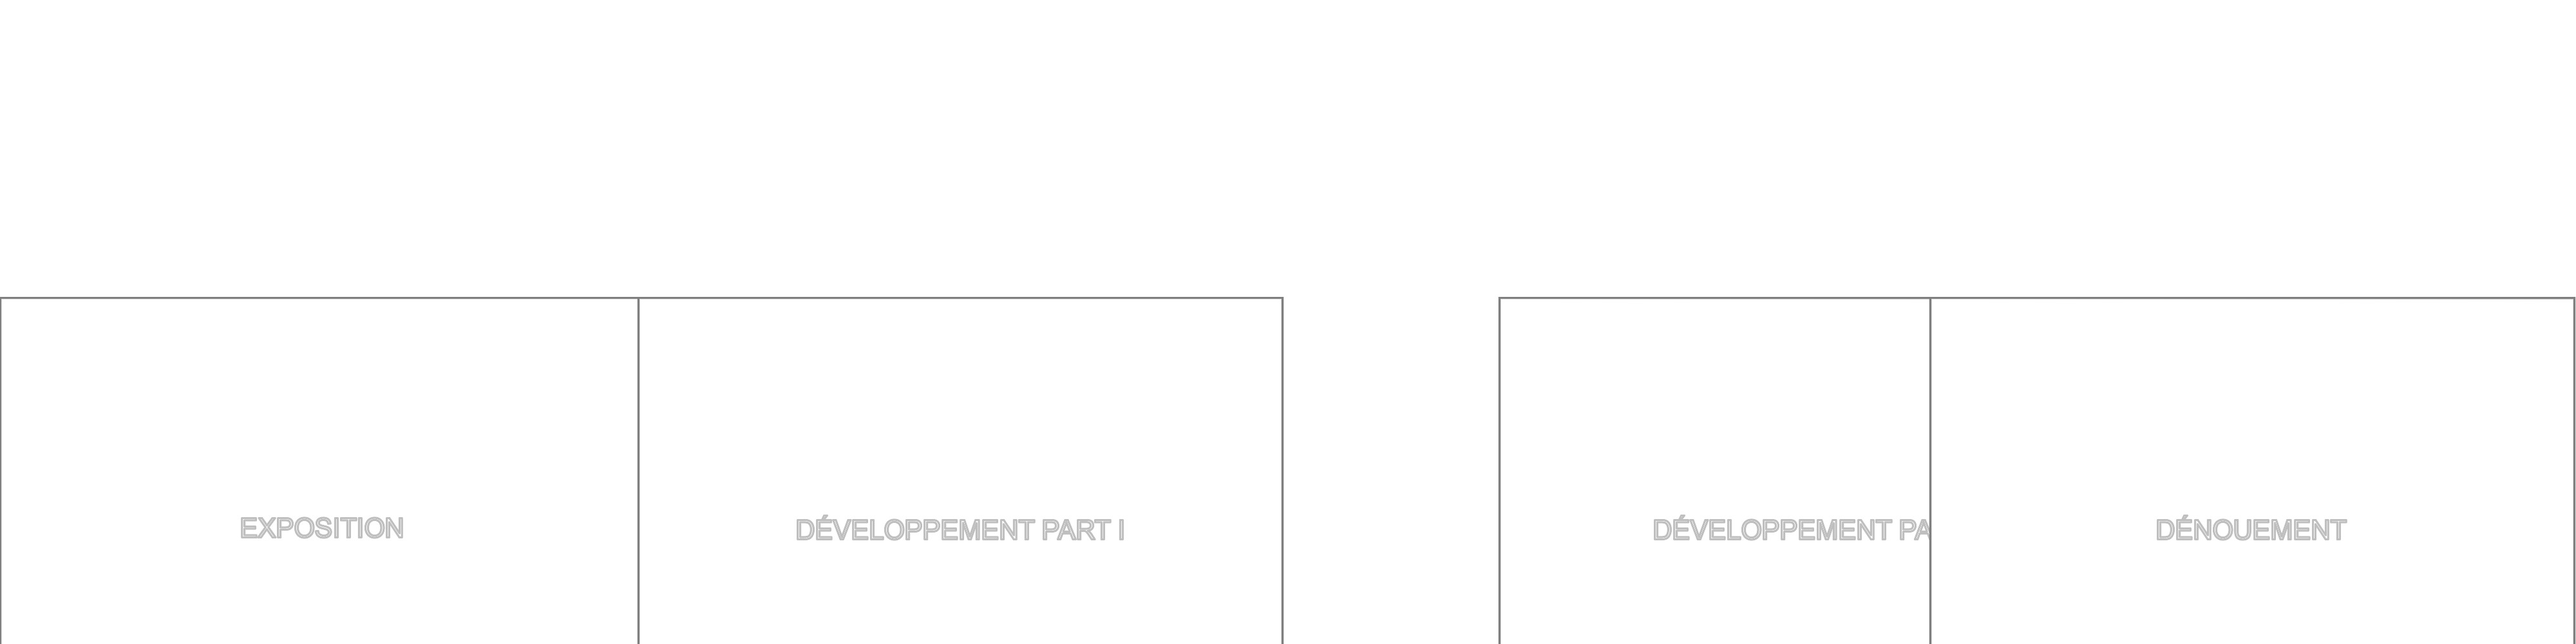
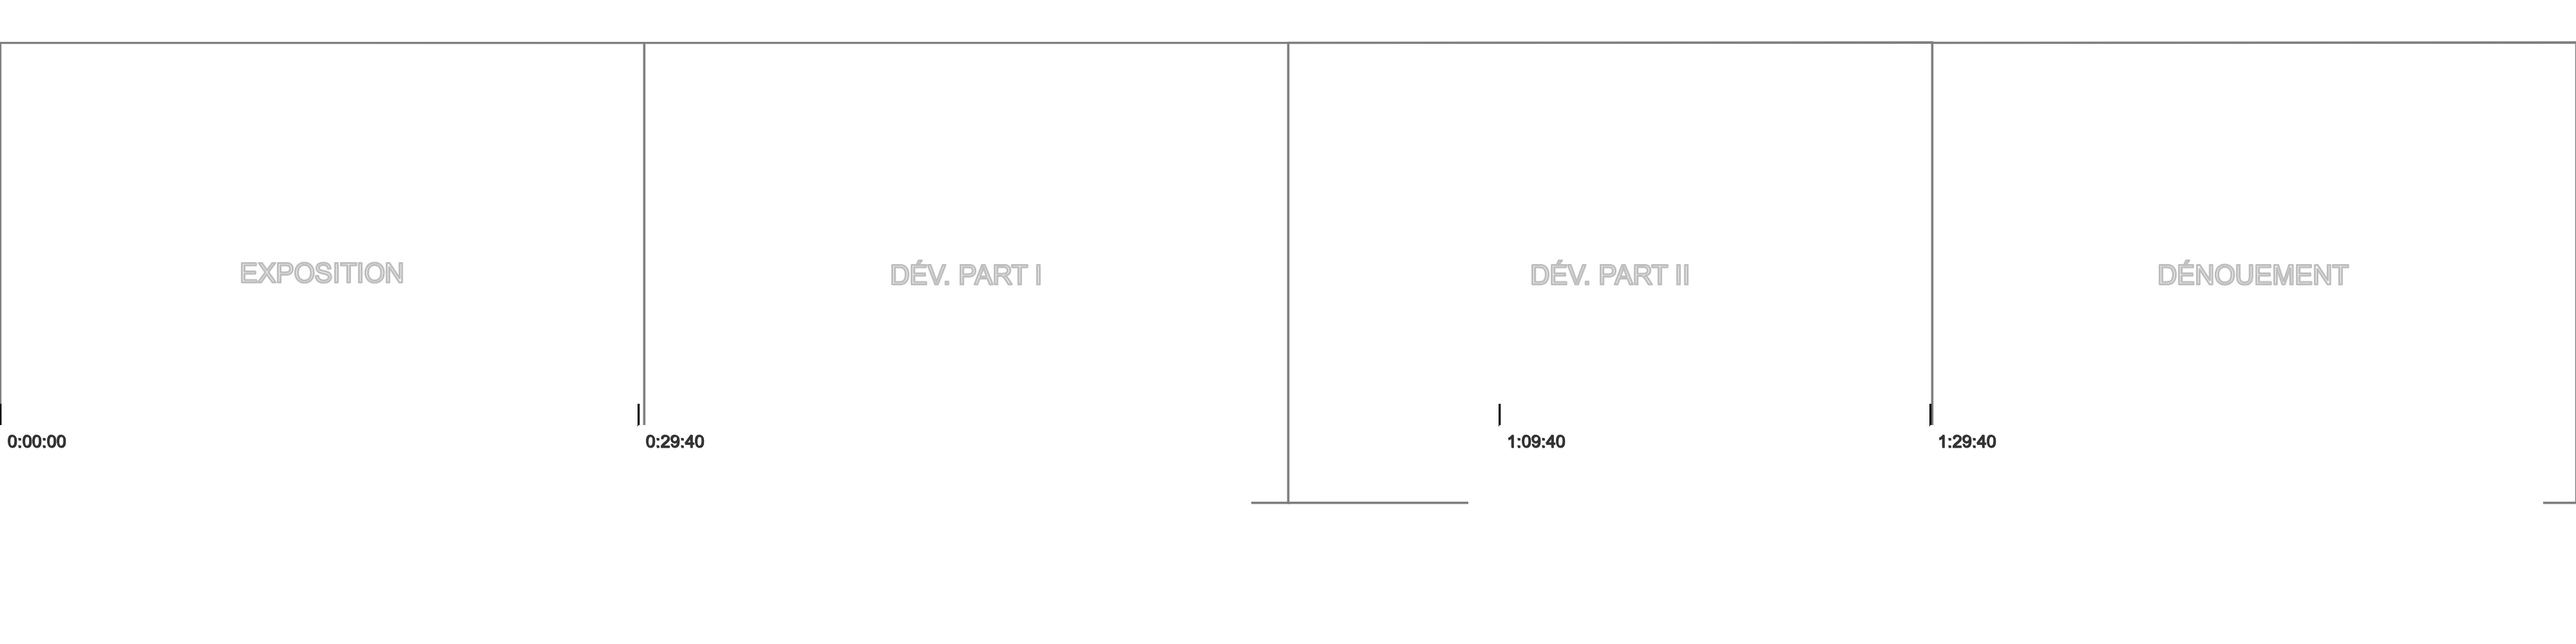
Refactorisation productive (image)

diff --git a/lib/pfa/imagemagick_node_methods.rb b/lib/pfa/imagemagick_node_methods.rb
@@ -1,0 +1,94 @@
+#
+# Module inclus dans la classe RelativePFA::Node
+# 
+# @note
+# 
+#   On le met en module pour avoir toutes les méthodes séparées
+#   du module principal.
+# 
+require_relative 'any_builder'
+module ImageMagicNodesMethodes
+
+  AnyBUILDER = PFA::RelativePFA::AnyBuilder
+
+
+  # @return [Array<BashString>] le code Image Magick pour construire 
+  # le noeud courant, ligne à ligne
+  # 
+  # @note
+  # 
+  #   Ce code retourne le code pour le paradigme absolu comme pour
+  #   le paradigme relatif. À l'avenir, il serait possible de n'en
+  #   obtenir qu'un seul. D'où le paramètre +options+ qui est 
+  #   inutilisé pour le moment
+  # 
+  #   On concerve les lignes pour pouvoir localiser facilement les
+  #   erreurs éventuelles.
+  # 
+  def img_draw_command(**options)
+    "\n" + img_draw_command_abs_pfa + "\n" + img_draw_command_rel_pfa
+  end
+
+  # @return [Array<BashString>] Les lignes pour construire le noeud,
+  # en version absolue (i.e. PFA idéal en fonction de la durée du film)
+  def img_draw_command_abs_pfa
+    <<~CMD.strip
+    #{send("img_lines_for_abs_#{type}".to_sym)}
+    \\(
+    -stroke #{AnyBUILDER::COLORS[type]}
+    -strokewidth #{AnyBUILDER::ABS_FONTWEIGHTS[type]}
+    -pointsize #{AnyBUILDER::ABS_FONTSIZES[type]}
+    -size #{img_surface}
+    label:"#{mark}"
+    -background none
+    -trim
+    -gravity #{AnyBUILDER::GRAVITIES[type]}
+    -extent #{img_surface}
+    \\)
+    -gravity northwest
+    -geometry +#{abs_left}+#{abs_top}
+    -composite
+    CMD
+  end
+
+  # @return [Array<BashString>] Les lignes pour construire le noeud,
+  # en version relative (i.e. PFA du film)
+  def img_draw_command_rel_pfa
+    <<~CMD.strip
+    -stroke black
+    -strokewidth 3
+    -fill black
+    -background white
+    -draw "line #{left},#{top-AnyBUILDER::LINE_HEIGHT/2} #{left+1},#{bottom+4*AnyBUILDER::LINE_HEIGHT}"
+    \\(
+    -background white
+    -stroke #{AnyBUILDER::COLORS[type]}
+    -fill #{AnyBUILDER::COLORS[type]}
+    -strokewidth #{AnyBUILDER::FONTWEIGHTS[type]}
+    -pointsize #{AnyBUILDER::FONTSIZES[type]}
+    label:"#{mark}"
+    -size #{img_surface}
+    -trim
+    -gravity #{AnyBUILDER::GRAVITIES[type]}
+    -extent #{img_surface}
+    \\)
+    -gravity northwest
+    -geometry +#{left+2-AnyBUILDER::RECTIFS[:part]}+#{top+2}
+    -composite
+    #{start_at.as_img_horloge_code(self)}
+    CMD
+  end
+
+
+  # La marque pour une partie absolue (un rectangle)
+  def img_lines_for_abs_part
+    <<~CMD.strip
+    -background transparent
+    -stroke #{AnyBUILDER::DARKERS[:part]}
+    -fill white
+    -strokewidth #{AnyBUILDER::ABS_BORDERS[:part]}
+    -draw "rectangle #{abs_left},#{abs_top} #{abs_right},#{abs_bottom}"
+    CMD
+  end
+
+end

diff --git a/lib/pfa/img_builder.rb b/lib/pfa/img_builder.rb
@@ -50,17 +50,26 @@ class ImgBuilder < AnyBuilder
     # Construction du code pour Image Magick
     # (dans cmd)
     # 
-    cmd = []
-    cmd << "#{CONVERT_CMD} -size #{PFA_WIDTH}x#{PFA_HEIGHT}"
-    cmd << "xc:white"
-    cmd << "-units PixelsPerInch -density 300"
-    cmd << "-background white -stroke black"
+    # cmd = []
+    # cmd << "#{CONVERT_CMD} -size #{PFA_WIDTH}x#{PFA_HEIGHT}"
+    # cmd << "xc:white"
+    # cmd << "-units PixelsPerInch -density 300"
+    # cmd << "-background white -stroke black"
+    cmd = <<~CMD.strip
+    #{CONVERT_CMD}
+    -size #{PFA_WIDTH}x#{PFA_HEIGHT}
+    xc:white
+    -units PixelsPerInch
+    -density 300
+    -background white 
+    -stroke black
+    CMD
 
     #
     # Le fond, avec les actes
     # 
     actes.each do |acte|
-      cmd << acte.img_draw_command
+      cmd += acte.img_draw_command
     end
 
     # 
@@ -93,29 +102,37 @@ class ImgBuilder < AnyBuilder
     #
     # L'espace de couleur
     # 
-    cmd << "-set colorspace sRGB"
+    cmd << "\n-set colorspace sRGB"
 
     #
     # Chemin d'accès au fichier final
     # (en le protégeant)
     # 
-    cmd << "\"#{image_path.gsub(/ /, "\\ ")}\""
+    cmd << " \"#{image_path.gsub(/ /, "\\ ")}\""
+
+    # STDOUT.write "\n\ncmd à la fin =\n++++\n#{cmd}\n+++++\n".orange
 
     #
     # Mise de la commande sur une seule ligne
-    # 
-    cmd = cmd.join(' ')
+    # (je ne parviens pas à mettre la commande sur plusieurs lignes,
+    #  même avec la contre-balance…)
+    cmd_finale = cmd.split("\n").compact.join(" ")
     
-    STDOUT.write "\n\nCommande finale\n#{cmd}\n".bleu
+    
+    # Pour débugger facilement, on met les numéros des lignes
+    
+    cmd_debug = cmd_finale.split("\n").collect.with_index do |line, idx|
+      "#{idx + 1}: #{line.strip}"
+    end.join("\n")
+    STDOUT.write "\n\nCommande finale\n#{cmd_debug}\n".bleu
 
     #
     # *** EXÉCUTION DE LA COMMANDE ***
     # 
-    res_err = `#{cmd} 2>&1`
+    res_err = `#{cmd_finale} 2>&1`
 
     unless res_err.nil? || res_err.empty?
-      raise PFAFatalError.new(5001, *{error: res_err})
-      # STDOUT.write  "res : #{res.inspect}\n".rouge
+      raise PFAFatalError.new(5001, **{error: res_err})
     end
 
     #

diff --git a/lib/pfa/relative_pfa_node.rb b/lib/pfa/relative_pfa_node.rb
@@ -1,6 +1,10 @@
+require_relative 'imagemagick_node_methods'
+
 module PFA
 class RelativePFA
 class Node
+
+  include ImageMagicNodesMethodes
 
   attr_reader :pfa, :key
 
@@ -14,39 +18,7 @@ class Node
   end
 
 
-  # @return la commande pour construire le fichier de l'image
-  # 
-  def img_draw_command
-    <<~CMD.gsub(/\n/,' ').strip
-    #{send("img_lines_for_#{type}".to_sym)}
-    \\(
-    -stroke #{AnyBuilder::COLORS[type]}
-    -strokewidth #{AnyBuilder::FONTWEIGHTS[type]}
-    -pointsize #{AnyBuilder::FONTSIZES[type]}
-    -size #{img_surface}
-    label:"#{mark}"
-    -background none
-    -trim
-    -gravity #{AnyBuilder::GRAVITIES[type]}
-    -extent #{img_surface}
-    \\)
-    -gravity northwest
-    -geometry +#{left}+#{top}
-    -composite
-    CMD
-  end
 
-
-  # La marque pour une partie (un rectangle)
-  def img_lines_for_part
-    <<~CMD
-    -background transparent
-    -stroke #{AnyBuilder::DARKERS[:part]}
-    -fill white
-    -strokewidth #{AnyBuilder::BORDERS[:part]}
-    -draw "rectangle #{left},#{top} #{right},#{box_bottom}"
-    CMD
-  end
 
   # La marque pour une séquence (un crochet allongé)
   def img_lines_for_sequence
@@ -94,7 +66,7 @@ class Node
 
   # [String] Horloge du temps (relatif) de départ
   def horloge
-    @horloge ||= start_at.exact.to_horloge
+    @horloge ||= start_at.to_horloge
   end
 
   # -- Temps Absolus --
@@ -230,7 +202,7 @@ class Node
   #     1/2 - 1/24
   # 
   def calc_with_fraction_of_duree(fraction_str)
-    fraction = eval(fraction_str.gsub(/\//,'.0/')) # p.e. 1/24 => 1.0/24
+    fraction = eval(fraction_str.to_s.gsub(/\//,'.0/')) # p.e. 1/24 => 1.0/24
     return PFA::NTime.new(pfa.duration.to_i * fraction, 0)
   end
 

diff --git a/lib/pfa/any_builder.rb b/lib/pfa/any_builder.rb
@@ -36,7 +36,7 @@ class AnyBuilder
   # Différence en hauteur du paradigme réel par rapport au paradigme
   # idéal
   # 
-  VOFFSET_REL_PFA = 6 * LINE_HEIGHT
+  VOFFSET_REL_PFA = 9 * LINE_HEIGHT
 
   #
   # Position verticale des éléments en fonction de leur nature
@@ -54,32 +54,49 @@ class AnyBuilder
     top_horloge:  ABS_TOPS[:top_horloge]  + VOFFSET_REL_PFA
   }
 
+  RECTIFS = {
+    part:         50, 
+    sequence:     0, 
+    noeud:        0
+  }
+
   #
   # Hauteur en fonction du type des éléments 
   # 
   HEIGHTS = { 
     part:     PFA_HEIGHT/1.4,
-    sequence: 50,
-    noeud:    50
+    sequence: 50, # PFA::LINE_HEIGHT (dans fichier relatif)
+    noeud:    50  # idem
   }
 
   #
   # Taille de police en fonction du type de l'élément
   # 
-  FONTSIZES = {
+  ABS_FONTSIZES = {
     part:     10,
     sequence: 8,
+    noeud:    7
+  }
+  FONTSIZES = {
+    part:     7, 
+    sequence: 7, 
     noeud:    7
   }
 
   #
   # Graisse de la police en fonction du type de l'élément
   # 
-  FONTWEIGHTS = {
+  ABS_FONTWEIGHTS = {
     part:     3,
     sequence: 2,
     noeud:    1
   }
+  FONTWEIGHTS = { 
+    part:     1,
+    sequence: 1, 
+    noeud:    1 
+  }
+  
 
   #
   # Couleur en fonction du type de l'élément
@@ -111,9 +128,14 @@ class AnyBuilder
   #
   # Largeur des bords en fonction du type de l'élément
   # 
-  BORDERS = {
+  ABS_BORDERS = {
     part:     3,
     sequence: 2,
+    noeud:    1
+  }
+  BORDERS = {
+    part:     1,
+    sequence: 1, 
     noeud:    1
   }
 

diff --git a/lib/pfa/node_time.rb b/lib/pfa/node_time.rb
@@ -53,6 +53,38 @@ class NTime
     @relative ||= NTime.new(secondes + zero_offset, 0)
   end
 
+  # --- Helpers Methods ---
+
+  # @retour [BashString] Le code pour écrire l'horloge dans une 
+  # image avec ImageMagick pour le noeud +node+
+  # 
+  # @param [PFA::RelativePFA::Node] node Le nœud de l'horloge
+  # @param [Hash] options 
+  #     Plus tard, pourra redéfinir :bg_color et :color
+  # 
+  def as_img_horloge_code(node, **options)
+    <<~CMD.strip
+    \\(
+    -background #{options[:bg_color]||'white'}
+    -stroke #{options[:color]||'gray20'}
+    -fill #{options[:color]||'gray20'}
+    -strokewidth 1
+    -pointsize 6.5
+    -size #{surface}
+    -gravity Center
+    label:"#{to_horloge}"
+    -extent #{surface}
+    \\)
+    -gravity northwest
+    -geometry +#{node.left}+#{node.top}
+    -composite
+    CMD
+  end
+
+  def surface
+    @surface ||= "#{PFA::RelativePFA::AnyBuilder::PFA_WIDTH/35}x50"
+  end
+
   # --- Operation Methods ---
 
   # Addition
